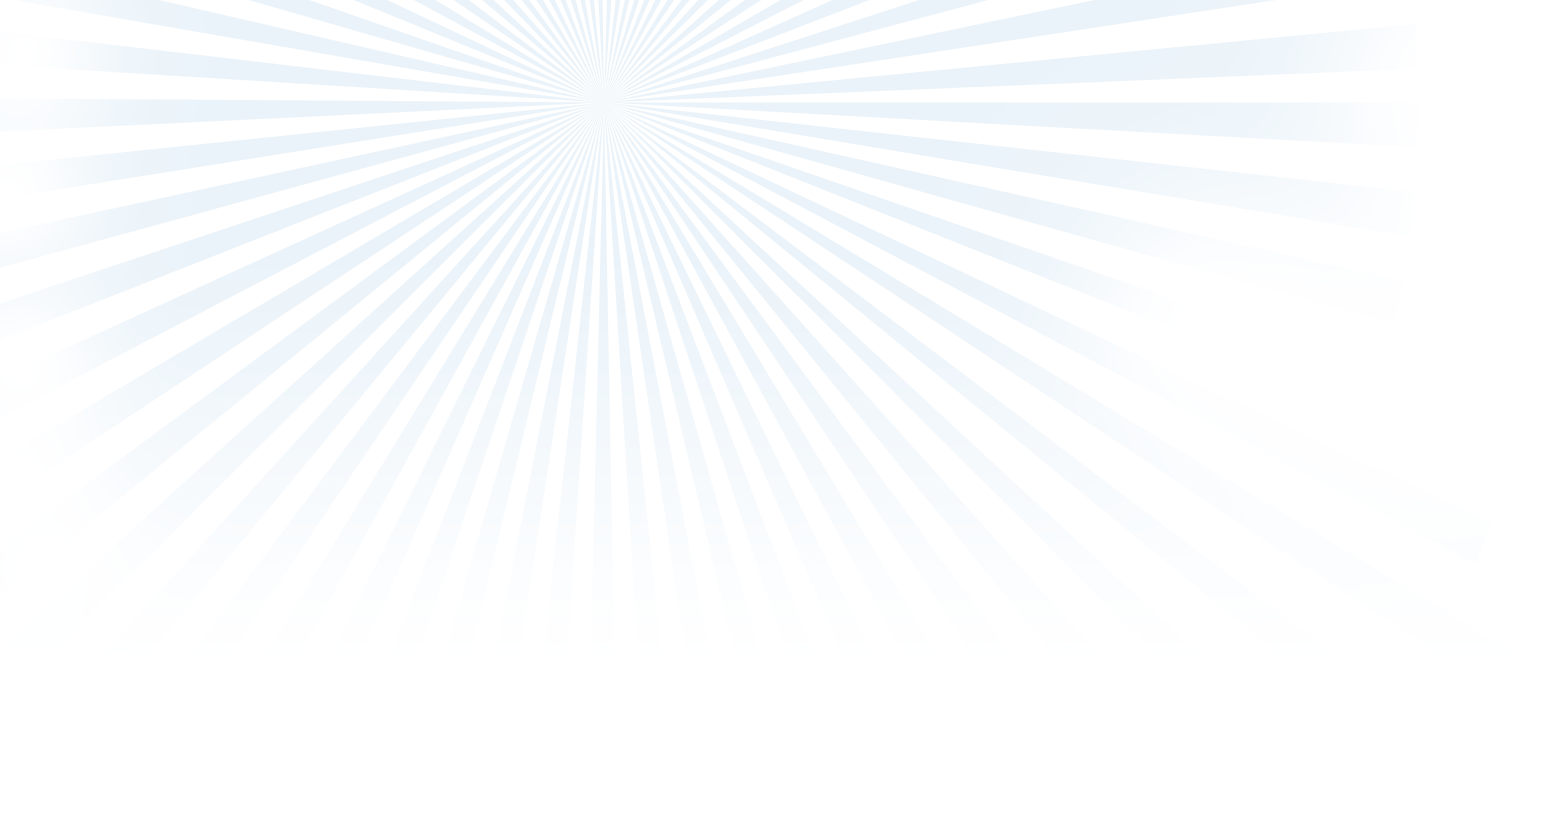
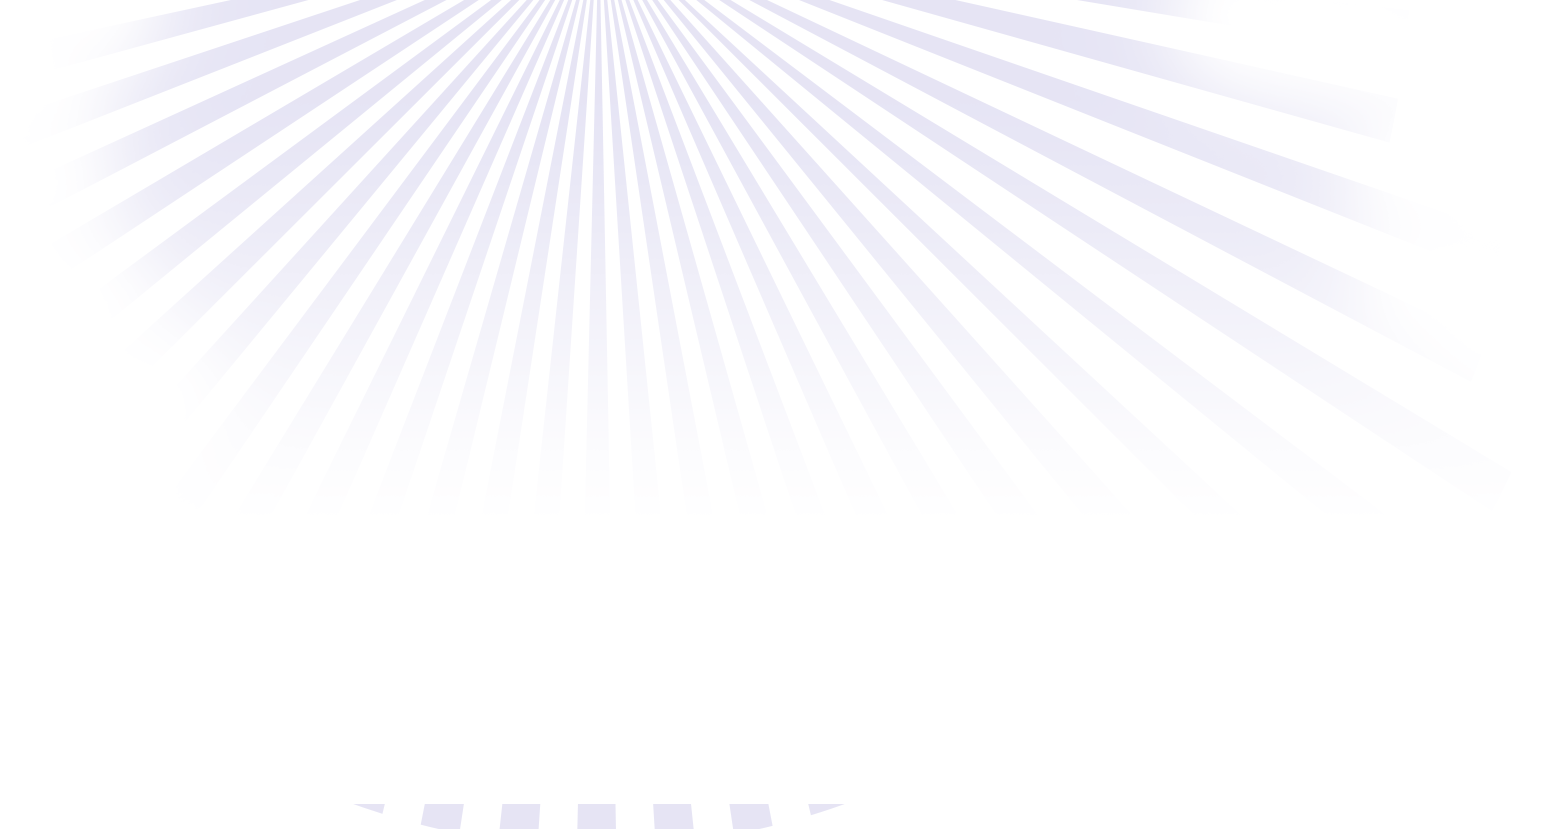
modified

diff --git a/index.html b/index.html
@@ -19,7 +19,7 @@
                         if(h<30) {
                                 level = 0;
                                 marginh = 30;
-                                header_size = 60;
+                                log_h = 75;
                                 nav_top = 20;
                                 margin_left = 25;
                         }
@@ -27,20 +27,20 @@
                                 ratio =  ((h-30)/(130-30));
                                 level = ratio*0.95;
                                 marginh = 30 * (1-ratio);
-                                header_size = 35 + 25 * (1-ratio);
+                                log_h = 35 + 40 * (1-ratio);
                                 nav_top = 20 * (1-ratio);
                                 margin_left = 25 * (1-ratio);
                         }
                         if(h >= 130) {
                                 level = 0.95;
                                 marginh = 0;
-                                header_size = 35;
+                                log_h = 35;
                                 nav_top = 0;
                                 margin_left = 0;
                         }
                         $('div.header').css('background-color', 'rgba(230, 240, 240, '+level+')');
                         $('div#header-top-margin').css('height', marginh);
-                        $('div.title').css('font-size', header_size + 'px');
+                        $('img#logo').css('height', log_h + 'px');
                         $('div.title').css('margin-left', margin_left + 'px');
                         $('div.nav-div').css('margin-top', nav_top);
                     });
@@ -51,7 +51,7 @@
                             $("html, body").animate({ scrollTop: height }, 400);
                             return false;
                         });
-                        $('.title a').click(function(){
+                        $('#logo').click(function(){
                             $("html, body").animate({ scrollTop: 0 }, 400);
                             return false;
                         });
@@ -61,12 +61,14 @@
     <body>
         <div class="header">
             <div style="width:1000px;margin: 0 auto;">
+			<!--
                     <div style="height : 40px; width : 31px; padding-top: 12px;" class="pull-left">
                         <a href="https://www.facebook.com/openeats" target="_blank"><img src="img/icon_facebook_32.png"/></a>
                     </div>
                     <div style="height : 40px; width : 31px; padding-top: 12px;" class="pull-left">
                         <a href="https://plus.google.com/108326826239426590613/posts" target="_blank"><img src="img/icon_google_plus_32.png"/></a>
                     </div>
+					-->
                 <div id="header-top-margin" style="height: 40px;">
                     <!--
                     <div style="height : 40px; width : 42px; float : left; padding-top: 10px;">
@@ -78,9 +80,17 @@
                     -->
                 </div>
                 <div class="title pull-left">
-                    <a href=""><span class="title-left">OPEN</span><span class="title-right">EATS</span></a>
+					<a href=""><img id="logo" src="img/logo.png"></a>
+					<!--
+                    <a href=""><span class="title-left">OPEN</span><span class="title-right">EATS</span></a>-->
                 </div>
-                <div class="nav-div pull-right">
+				<div class="nav-div pull-right" style="margin-right: 0px;">
+					<div style="margin-top: 10px;">
+					<a href="https://www.facebook.com/openeats" target="_blank"><img src="img/icon_facebook_32.png"/></a>
+					<a href="https://plus.google.com/108326826239426590613/posts" target="_blank"><img src="img/icon_google_plus_32.png"/></a>
+					</div>
+				</div>
+                <div class="nav-div pull-right" style="margin-right: 30px;">
                     <ul class="nav nav-pills">
                         <li>
                         <a href="about">About</a>
@@ -149,7 +159,6 @@
                     </div>
                 </div>
 
-
                 <hr>
 
 
@@ -157,13 +166,13 @@
                     <h1 class="section-title">About</h1>
                     <div class="row">
                         
-                        <div class="col-lg-7">
-                            <img width="95%" src="img/img_about.png">
+                        <div class="col-lg-6">
+                            <img src="img/img_about.png">
                         </div>
-                        <div class="col-lg-5">
-                            <h3>
+                        <div class="col-lg-6">
+                         <h3>
                             <p>
-                            In the past few years, Taiwan has been going through many food safety crises. Products like packaged drinks, oil, instant noodles and milk were once reported containing illegally-added chmicals which could did harm to our health. Which made it so sarcastic was that some products were in our daily meal. We ate them everyday for more than a decade. Even the leading food brands lost people's trust.</p>
+                            In the past few years, Taiwan has been going through many food safety crises. Products like packaged drinks, oil, instant noodles and milk were once reported containing illegally-added chemicals which could did harm to our health. Which made it so sarcastic was that some products were in our daily meal. We ate them everyday for more than a decade. Even the leading food brands lost people's trust.</p>
                             <p>Which food can we trust? These products should not go into our mouths. We don't want to eat them. But how can we do to avoid eating them. How do we know the food in my mouth is safe or not. In this case, we came up with the idea - <font style="font-weight:bold">OpenEats</font>!
                             </p>
                         </h3>
@@ -171,11 +180,11 @@
                     </div>
                         <br>
                     <div class="row">
-                        <div class="col-lg-4">
-                            <p style="margin-top:100px;">Our team includes people specializing in different areas. We have PMs, businessmen, developers and designers. We are a cool team and paossionate in Openeats project. And with no doubt, we are the people who would never put those unsafe food in the mouth.
+                        <div class="col-lg-6">
+                            <p style="margin-top:30px;">Our team includes people specializing in different areas. We have PMs, businessmen, developers and designers. We are a cool team and passionate in OpenEats project. And with no doubt, we are the people who would never put those unsafe food in the mouth.
                             </p>
                         </div>
-                        <div class="col-lg-8">
+                        <div class="col-lg-5">
                             <img class="pull-right" src="img/team.png">
                         </div>
                     </div>
@@ -186,42 +195,28 @@
 
 
                 <div class="services-section section">
-                    <div class="service">
-                        <h1 class="section-title">Food Safety Coach</h1>
-                            <h3>
-                                <p>Are you allergic to some food? Food safety coach tells you which food you should avoid from.</p>
-                                <p>Check if the composition of food fits your need.</p>
-                            <h3>
-                    </div>
-
-                    <div class="service">
-                        <h1 class="section-title">Personal Food Testing</h1>
-                            <h3>
-                                <p>Provide door-to-door food testing service, which is fast, convenient and customized to user's need.</p>
-                                <p>Are you on a diet? Let food safety coach guide your daily selection.</p>
-                            <h3>
-                    </div>
-
-                    <div class="service">
-                        <h1 class="section-title">Food Scoop</h1>
-                            <h3>
-                                <p>Track top concerned food in the market. </p>
-                                <p>All the reports will be organized and interpreted as figures, charts and sentenses</p>
-                                <p>which members can easily understand.</p>
-                            <h3>
-                    </div>
-
-                    <div class="service">
-                        <h1 class="section-title">Consumer Gatekeeper</h1>
-                            <h3>
-                                <p>Track food from restaurant chains. Users will be encouraged to donate a small amount of </p>
-                                <p>money to test food from the most popular restaurant chains.</p>
-                            <h3>
-                    </div>
-
+                    <h1 class="section-title">Services</h1>
+                            <div class="row">
+                                <div class="col-lg-6">
+                                    <img src="img/food_safety_coach.png">
+                                </div>
+                                <div class="col-lg-5">
+                                    <img src="img/personal_food_testing.png">
+                                </div>
+                            </div>
+                            <div class="row" style="margin-top:40px;">
+                                <div class="col-lg-6">
+                                    <img src="img/food_scope.png">
+                                </div>
+                                <div class="col-lg-5">
+                                    <img src="img/consumer_gatekeeper.png">
+                                </div>
+                            </div>
                 </div>
-
+                <br>
                 
+                <hr>
+
                 <div class="contact-section section" style="margin-bottom:200px;">
                     <h1 class="section-title">Contact</h1>
                     <form id="contact-form" class="form-horizontal" role="form">
@@ -289,9 +284,8 @@
 							return false;
 						});
 					</script>
+                    </div>
                 </div>
-
-
             </div>
         </div>
         <div class="footer text-center">

diff --git a/css/openeats_theme.css b/css/openeats_theme.css
@@ -6,6 +6,7 @@ body {
 }
 hr {
     margin: 40px 0;
+    height: 5px;
 }
 
 h3 {
@@ -21,8 +22,8 @@ div.wrapper {
 }
 
 div.header-bg {
-    height: 200px;
-    background: url('../img/banner.png');
+    height: 150px; /*200*/
+    /*background: url('../img/banner.png');*/
     background-repeat:no-repeat;  
     margin-top: 28px;
   
@@ -36,11 +37,13 @@ div.header {
 }
 
 div.title {
-    /*position:relative; left: 250px; top: 35px;*/
     font-family: Courier;
-    font-size: 60px;
     font-weight: bold;
-    margin-left: 95px;
+    margin-left: 25px;
+}
+
+img#logo {
+	margin-top: 7px;
 }
 
 div.title a:hover {
@@ -60,16 +63,14 @@ div.title a:hover {
 }
 
 .nav-div {
-    margin-right: 60px;
     margin-top: 20px;
     /*position:relative; top: -25px; left: 820px;*/   
 }
 
 .nav li a {
     font-family: Arial;
-    color: #146087;
-    font-weight: bold;
-    font-size: 18px;
+    color: #726399;
+    font-size: 16px;
 }
 
 .main-section {
@@ -100,7 +101,7 @@ div.video {
 .feature-title {
     font-family: Arial;
     font-size: 24px;
-    color: #146087;
+    color: #534c9f;
     padding-top: 5px;
     font-weight: bold;
 }
@@ -108,14 +109,14 @@ div.video {
 .feature-detail {
     font-family: Arial;
     font-size: 14px;
-    color: #5c4dbc;
+    color: #777777;
     font-weight: bold;
 }
 
 .copyright {
     font-family: Arial;
     font-size: 11px;
-    color: #9ac1e5;
+    color: #bdbdbd;
 }
 
 div.section p {
@@ -125,13 +126,18 @@ div.section p {
     line-height: 20px;
 }
 
+.contact-section {
+    margin-right: 50px;
+}
+
+.contact-section label {
+    color: #666;
+}
+
 div.footer {
-    background-color: #2c6395;
+    background-color: #4a494e;
     padding-top: 30px;
     padding-bottom: 60px;
-    border-top-style: solid;
-    border-top-color: #88b6e2;
-    border-width: 15px;
 }
 
 /* CSS for services */
@@ -143,15 +149,15 @@ div.footer {
 .section-title {
     font-family: Arial;
     font-size: 26px;
-    color: #7450C0;
+    color: #777777;
     font-weight: bold;
 }
 
 /* CSS modification for Bootstrap */
 
 .nav li a:focus, .nav li a:hover {
-    background-color: #146087;
-    color: #fff;
+    color: #534c9f;
+    border-bottom: 4px #534c9f;
 }
 
 
